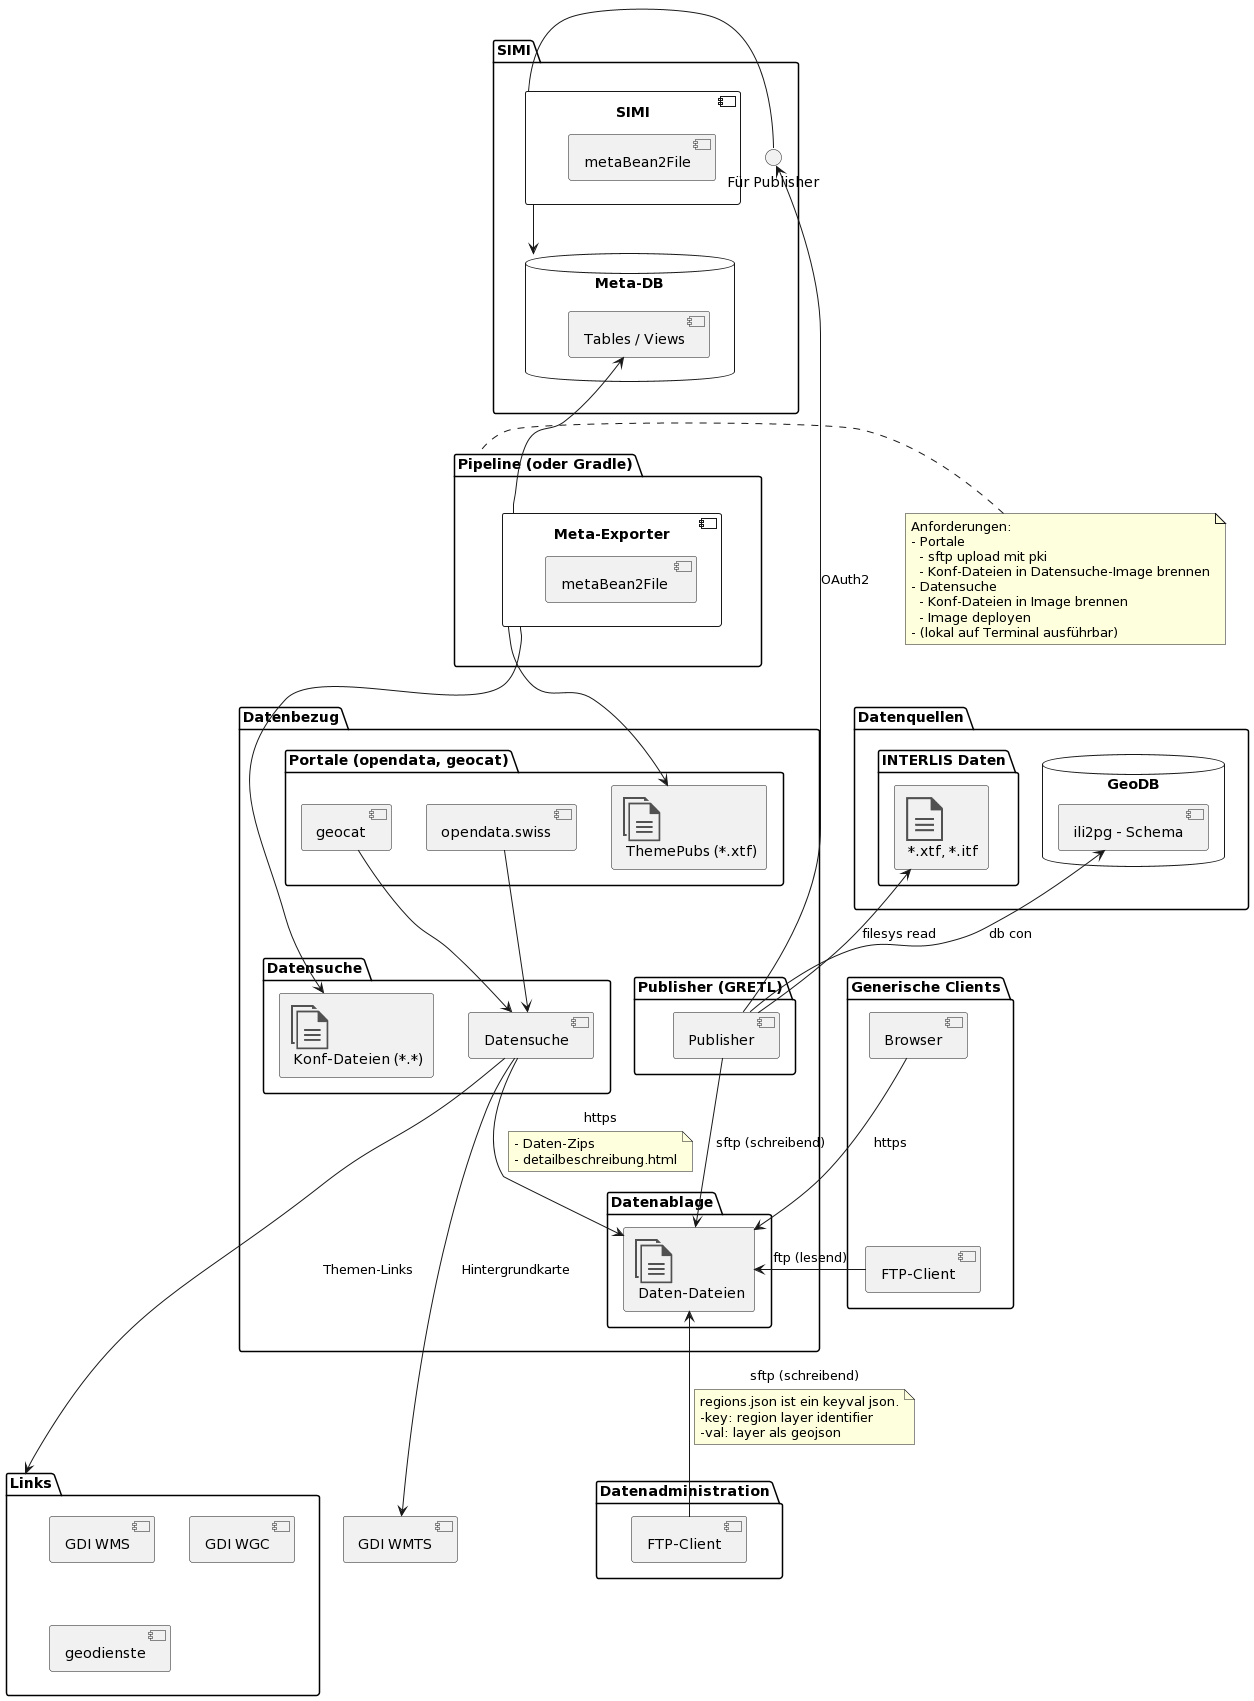
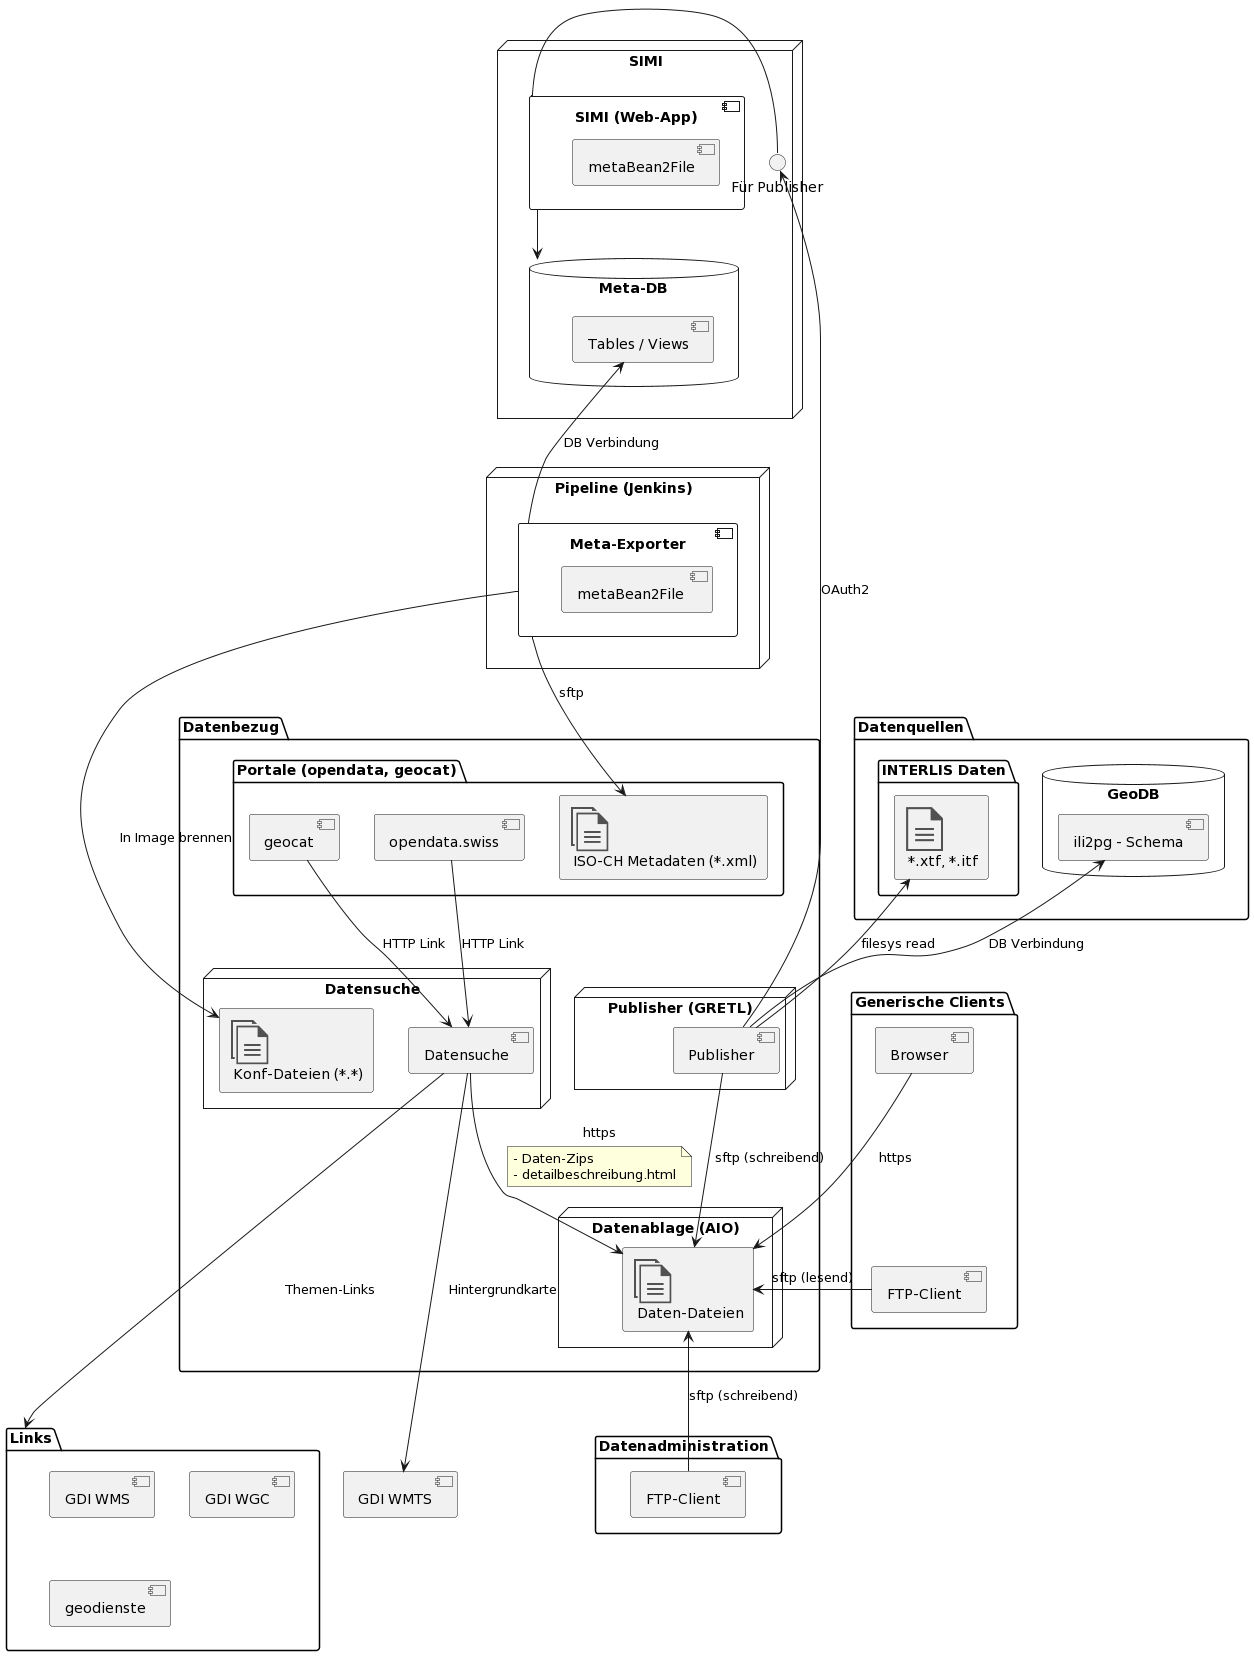
update overview

diff --git a/readme.md b/readme.md
@@ -4,11 +4,26 @@ Umfasst die Komponenten und Schnittstellen, mit welchen die öffentlichen Geodat
 
 ## Komponenten
 
-* **Publisher:** GRETL-Task, welcher für Vektordaten die aktuellsten Geodaten-Dateien bereitstellt und das Archiv der vorherigen Zeitstände pflegt. Liest und schreibt Metainformationen mittels Schnittstelle zu SIMI.
-* **Datensuche:** Webapplikation zum Suchen und Herunterladen der Geodaten mit einfach verständlicher Benutzeroberfläche.
-* **Datenablage:** Strukturierte und für fortgeschrittene Benutzer selbsterklärende Datenablage. Benutzer und automatisierte Datenprozesse beziehen die Datendateien direkt via HTTPS und anonymem FTP.
-
 ![Uebersichtsdiagramm](res/uebersicht.png)
+
+
+* **SIMI:** 
+  * Erweiterung von Metamodell und Masken mit den Tabellen für die Themen-Verwaltung.
+  * Einbinden des Jar "metaBean2File" zwecks Generieren der Detailbeschreibung pro Tabelle für die Schnittstelle zum Publisher.
+* **Pipeline:**   
+Erstellen einer neuen Pipeline, welche jeweils frühmorgens nach Zeitplan ausgeführt wird.   
+Inhalt:
+  * Aktualisierung Datensuche:   
+  Export der Konfig-Datei mittels Kommandozeilentool "Meta-Exporter". Mit Datei und "Base-Image" neues "Runtime-Image" der Datensuche brennen und deployen.
+  * Aktualisierung Geocat:   
+  Export der ISO-CH XML-Dateien mittels "Meta-Exporter". Upload via sftp auf Geocat.
+* **Datensuche:**   
+Webapplikation zum Suchen und Herunterladen der Geodaten mit einfach verständlicher Benutzeroberfläche.   
+Wird von den Portalen verlinkt und bietet darum "Direktlinks" auf eine Themen-Bereitstellung an. Bsp MO-Public: "https://data.geo.so.ch/ch.so.av.mopublic"
+* **Publisher:**   
+GRETL-Task, welcher für Vektordaten die aktuellsten Geodaten-Dateien bereitstellt und das Archiv der vorherigen Zeitstände pflegt. Liest und schreibt Metainformationen mittels Schnittstelle zu SIMI.
+* **Datenablage:**   
+Strukturierte und für fortgeschrittene Benutzer selbsterklärende Datenablage. Benutzer und automatisierte Datenprozesse beziehen die Datendateien direkt via HTTPS und anonymem FTP.
 
 ## Technische Anwendungsfälle
 
